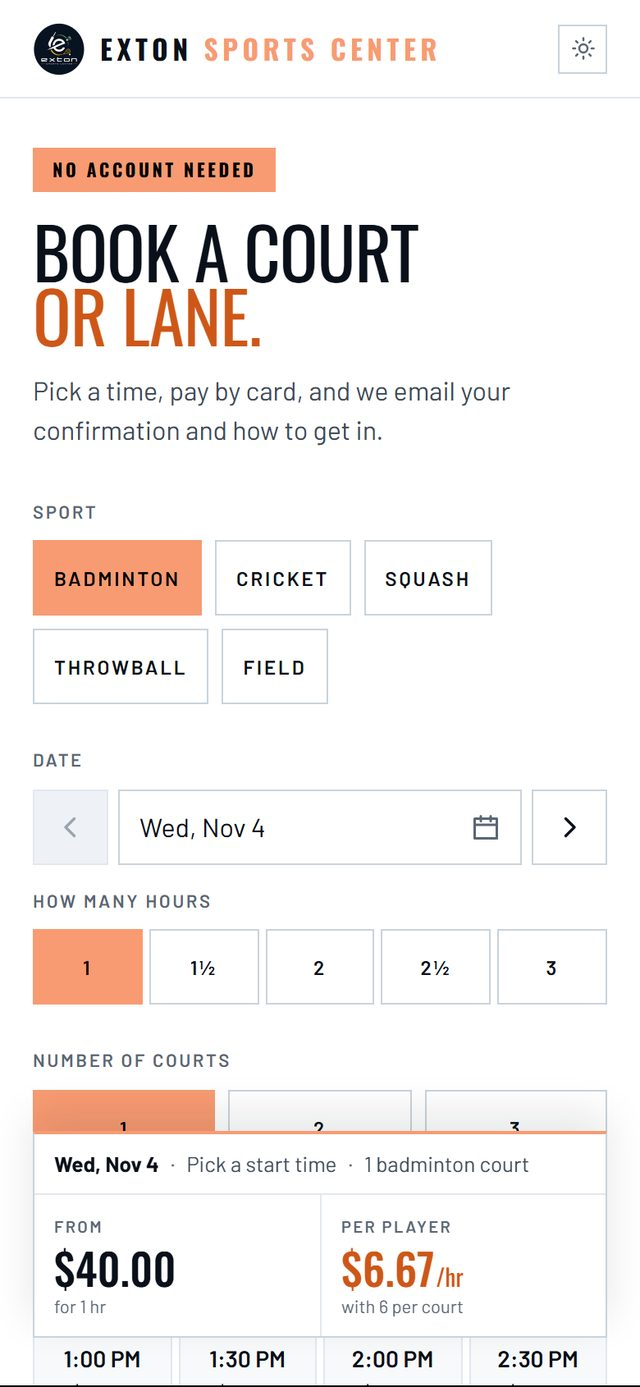
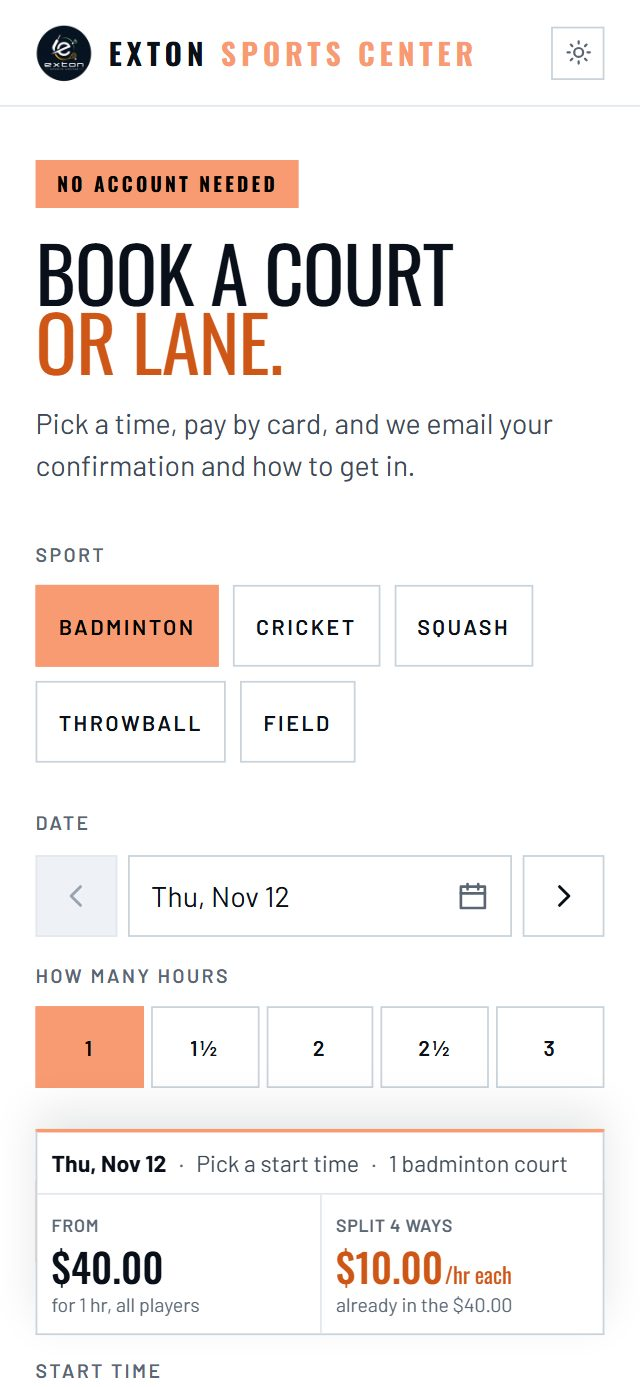
fix(orangish): retake the booking-page screenshot with the new price strip (#192)
The /orangish pitch page showed the booking page as of 4 Nov: "PER PLAYER $6.67/hr,
with 6 per court". Since orangish-app #718 / #721 (2026-11-11/12) the strip reads
"Split 4 ways · $10.00/hr each · already in the $40.00", and the total "for 1 hr, all
players". Retaken from the live page at the same framing (360 CSS px, 640 x 1387,
light). Caption and alt now say "the total and each player's share of it"; the footer
dates the booking shot 12 November.

diff --git a/public/orangish/index.html b/public/orangish/index.html
@@ -170,8 +170,8 @@ figcaption b { color: var(--fg); font-weight: 600; }
         <li><div><b>Online waivers</b> signed on the phone before players arrive.</div></li>
       </ul>
       <figure style="justify-self:center">
-        <div class="phone"><img src="/orangish/img/book.jpg" alt="Exton's no-account booking page on a phone: sport, date, hours and courts, with the price per player" width="640" height="1387"></div>
-        <figcaption><b>No-account booking.</b> Sport, date, length and courts, with the price per player shown as they choose.</figcaption>
+        <div class="phone"><img src="/orangish/img/book.jpg" alt="Exton's no-account booking page on a phone: sport, date and hours, with the total and each player's share of it" width="640" height="1387"></div>
+        <figcaption><b>No-account booking.</b> Sport, date, length and courts, with the total and each player's share of it shown as they choose.</figcaption>
       </figure>
     </div>
     <figure class="wide">
@@ -292,7 +292,7 @@ figcaption b { color: var(--fg); font-weight: 600; }
       </div>
     </div>
   </section>
-  <footer class="foot">Screenshots are from Exton Sports Center's live pages and screens, 4 November 2026. Orangish is built by STAR SQUASH, LLC.</footer>
+  <footer class="foot">Screenshots are from Exton Sports Center's live pages and screens, 4 November 2026; the booking page, 12 November 2026. Orangish is built by STAR SQUASH, LLC.</footer>
 </div>
 </body>
 </html>
